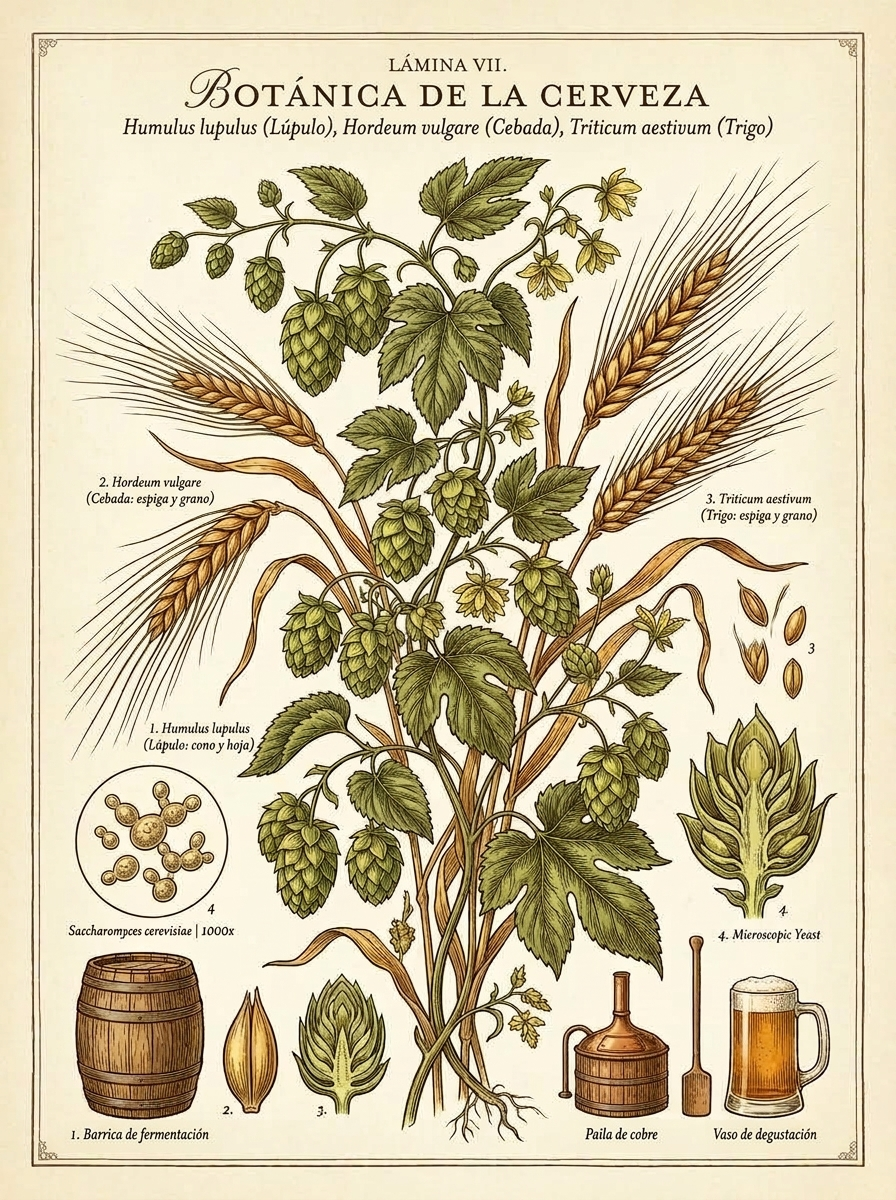
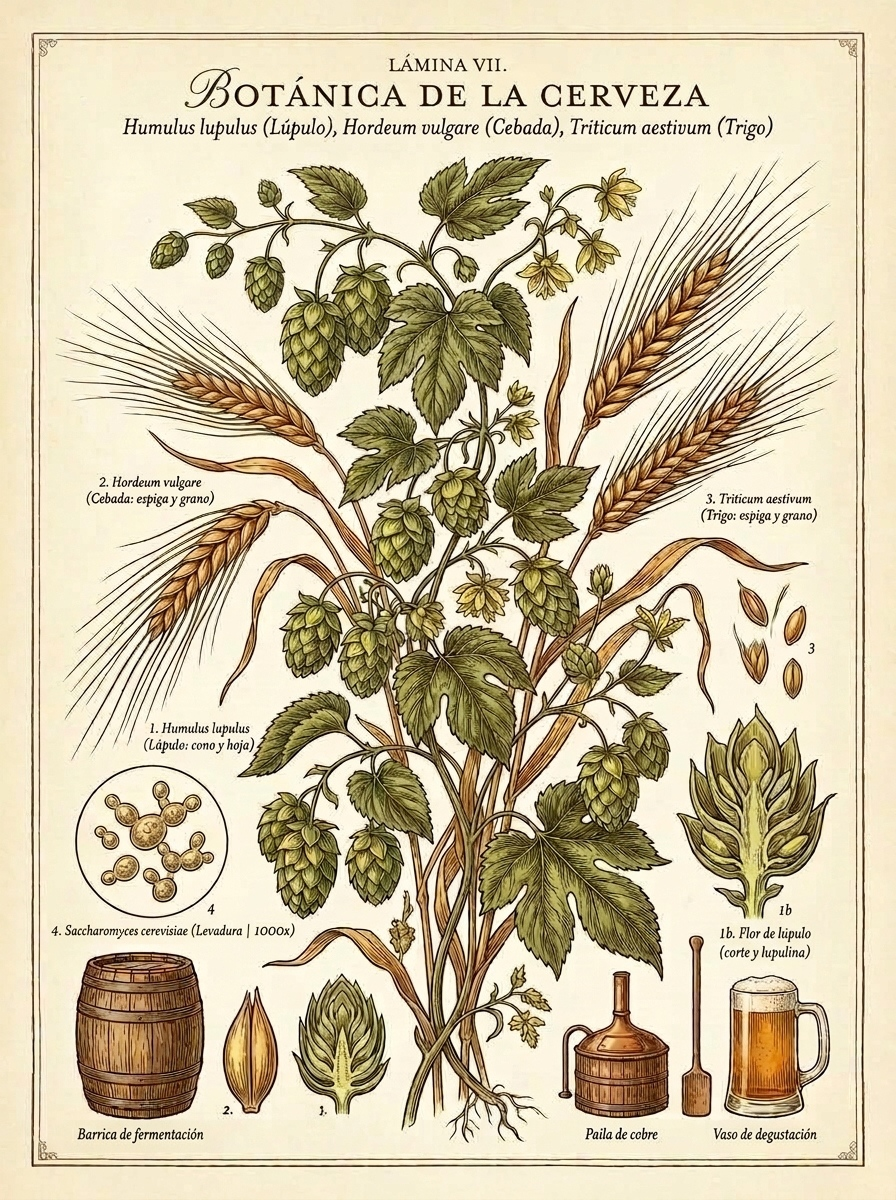
fix: corregir leyendas botánicas en portada y reducir padding superior en móvil

diff --git a/_site/assets/css/diptico.css b/_site/assets/css/diptico.css
@@ -1029,9 +1029,9 @@ a:hover {
 /* Hero Section */
 .web-hero {
   max-width: 1100px;
-  margin: 0 auto 2rem auto;
+  margin: 0 auto 1.5rem auto;
   text-align: center;
-  padding: 2.5rem 1.5rem 2rem 1.5rem;
+  padding: 1.25rem 1.5rem 1.5rem 1.5rem;
   background: #ffffff;
   border-radius: 16px;
   border: 1px solid var(--color-border);
@@ -1046,16 +1046,23 @@ a:hover {
   font-weight: 700;
   text-transform: uppercase;
   letter-spacing: 0.08em;
-  padding: 0.35rem 0.9rem;
+  padding: 0.3rem 0.85rem;
   border-radius: 20px;
-  margin-bottom: 1rem;
+  margin-bottom: 0.55rem;
+}
+
+.hero-badge p,
+.hero-cover-container p,
+.meta-chip p,
+.cover-art-wrapper p {
+  margin: 0;
 }
 
 .web-hero h1 {
   font-family: var(--font-serif);
   font-size: clamp(2rem, 5vw, 3rem);
   color: var(--color-ink);
-  margin: 0 0 0.75rem 0;
+  margin: 0 0 0.45rem 0;
   line-height: 1.15;
   letter-spacing: -0.02em;
 }
@@ -1066,13 +1073,13 @@ a:hover {
   font-weight: 400;
   color: var(--color-muted);
   max-width: 750px;
-  margin: 0 auto 1.5rem auto;
-  line-height: 1.5;
+  margin: 0 auto 1rem auto;
+  line-height: 1.45;
 }
 
 .hero-cover-container {
   max-width: 650px;
-  margin: 1rem auto 1.5rem auto;
+  margin: 0.5rem auto 1.1rem auto;
   border-radius: 12px;
   overflow: hidden;
   box-shadow: 0 8px 24px rgba(0, 0, 0, 0.08);
@@ -1089,13 +1096,13 @@ a:hover {
   flex-wrap: wrap;
   justify-content: center;
   gap: 0.6rem;
-  margin-top: 1rem;
+  margin-top: 0.75rem;
 }
 
 .meta-chip {
   background: #f8fafc;
   border: 1px solid var(--color-border);
-  padding: 0.4rem 0.85rem;
+  padding: 0.35rem 0.8rem;
   border-radius: 20px;
   font-size: 0.82rem;
   color: var(--color-body);
@@ -1900,8 +1907,33 @@ a:hover {
     border-left: none;
     border-right: none;
     border-top: none;
-    padding: 1.75rem 1rem;
-    margin-bottom: 1rem;
+    padding: 0.5rem 0.9rem 1rem 0.9rem;
+    margin-bottom: 0.75rem;
+  }
+
+  .hero-badge {
+    font-size: 0.7rem;
+    padding: 0.2rem 0.65rem;
+    margin-bottom: 0.35rem;
+  }
+
+  .web-hero h1 {
+    font-size: 1.75rem;
+    margin: 0 0 0.25rem 0;
+  }
+
+  .web-hero h3 {
+    font-size: 0.92rem;
+    margin: 0 auto 0.55rem auto;
+    line-height: 1.35;
+  }
+
+  .hero-cover-container {
+    margin: 0.35rem auto 0.75rem auto;
+  }
+
+  .sheet .page.front-cover {
+    padding-top: 0.6rem;
   }
 
   .web-container {

diff --git a/assets/css/diptico.css b/assets/css/diptico.css
@@ -1029,9 +1029,9 @@ a:hover {
 /* Hero Section */
 .web-hero {
   max-width: 1100px;
-  margin: 0 auto 2rem auto;
+  margin: 0 auto 1.5rem auto;
   text-align: center;
-  padding: 2.5rem 1.5rem 2rem 1.5rem;
+  padding: 1.25rem 1.5rem 1.5rem 1.5rem;
   background: #ffffff;
   border-radius: 16px;
   border: 1px solid var(--color-border);
@@ -1046,16 +1046,23 @@ a:hover {
   font-weight: 700;
   text-transform: uppercase;
   letter-spacing: 0.08em;
-  padding: 0.35rem 0.9rem;
+  padding: 0.3rem 0.85rem;
   border-radius: 20px;
-  margin-bottom: 1rem;
+  margin-bottom: 0.55rem;
+}
+
+.hero-badge p,
+.hero-cover-container p,
+.meta-chip p,
+.cover-art-wrapper p {
+  margin: 0;
 }
 
 .web-hero h1 {
   font-family: var(--font-serif);
   font-size: clamp(2rem, 5vw, 3rem);
   color: var(--color-ink);
-  margin: 0 0 0.75rem 0;
+  margin: 0 0 0.45rem 0;
   line-height: 1.15;
   letter-spacing: -0.02em;
 }
@@ -1066,13 +1073,13 @@ a:hover {
   font-weight: 400;
   color: var(--color-muted);
   max-width: 750px;
-  margin: 0 auto 1.5rem auto;
-  line-height: 1.5;
+  margin: 0 auto 1rem auto;
+  line-height: 1.45;
 }
 
 .hero-cover-container {
   max-width: 650px;
-  margin: 1rem auto 1.5rem auto;
+  margin: 0.5rem auto 1.1rem auto;
   border-radius: 12px;
   overflow: hidden;
   box-shadow: 0 8px 24px rgba(0, 0, 0, 0.08);
@@ -1089,13 +1096,13 @@ a:hover {
   flex-wrap: wrap;
   justify-content: center;
   gap: 0.6rem;
-  margin-top: 1rem;
+  margin-top: 0.75rem;
 }
 
 .meta-chip {
   background: #f8fafc;
   border: 1px solid var(--color-border);
-  padding: 0.4rem 0.85rem;
+  padding: 0.35rem 0.8rem;
   border-radius: 20px;
   font-size: 0.82rem;
   color: var(--color-body);
@@ -1900,8 +1907,33 @@ a:hover {
     border-left: none;
     border-right: none;
     border-top: none;
-    padding: 1.75rem 1rem;
-    margin-bottom: 1rem;
+    padding: 0.5rem 0.9rem 1rem 0.9rem;
+    margin-bottom: 0.75rem;
+  }
+
+  .hero-badge {
+    font-size: 0.7rem;
+    padding: 0.2rem 0.65rem;
+    margin-bottom: 0.35rem;
+  }
+
+  .web-hero h1 {
+    font-size: 1.75rem;
+    margin: 0 0 0.25rem 0;
+  }
+
+  .web-hero h3 {
+    font-size: 0.92rem;
+    margin: 0 auto 0.55rem auto;
+    line-height: 1.35;
+  }
+
+  .hero-cover-container {
+    margin: 0.35rem auto 0.75rem auto;
+  }
+
+  .sheet .page.front-cover {
+    padding-top: 0.6rem;
   }
 
   .web-container {
